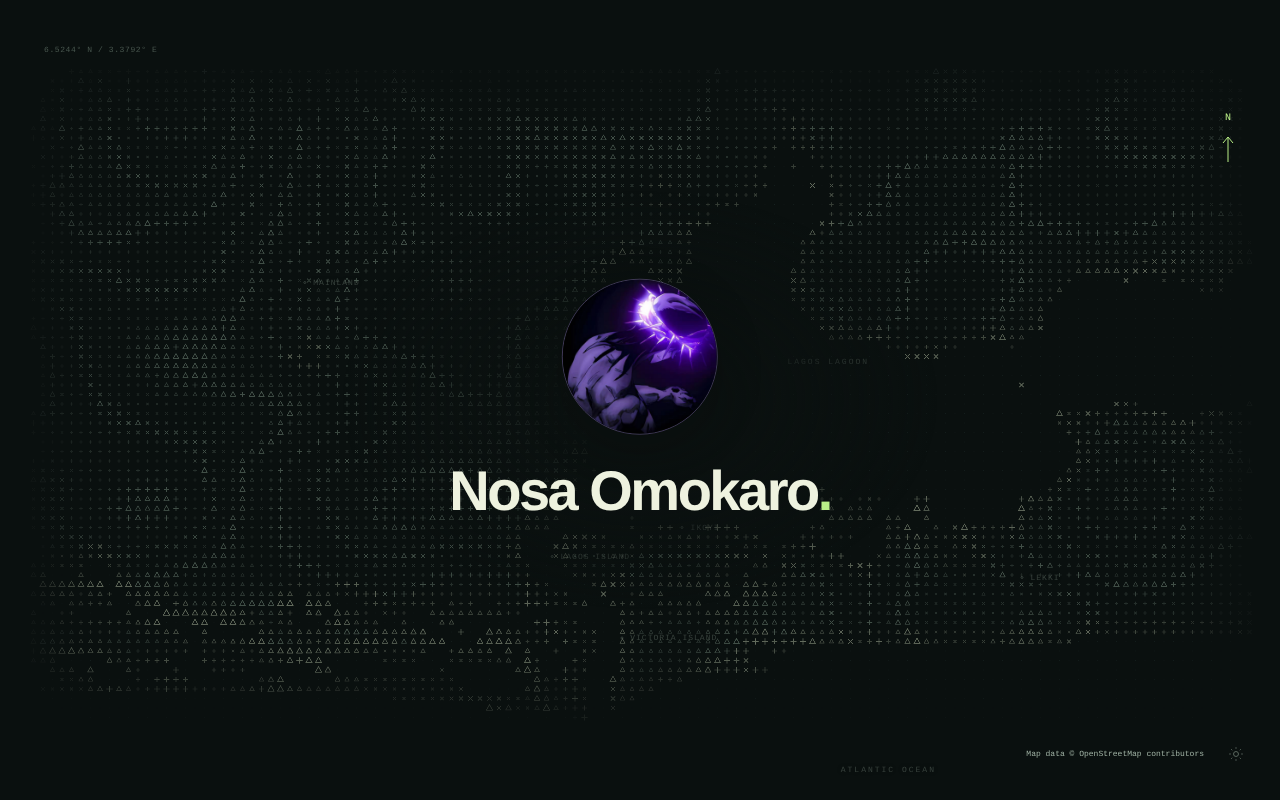
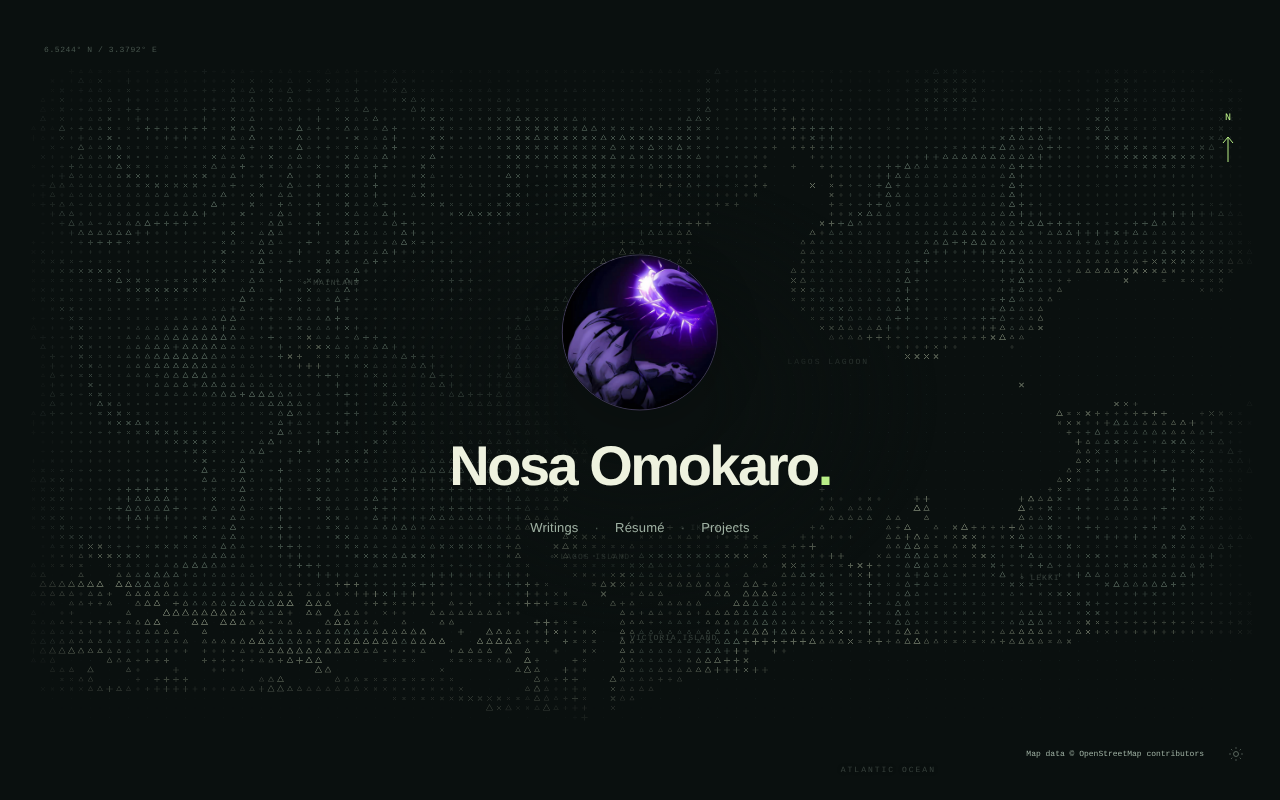
Add portfolio navigation placeholders beneath profile

Changed region(s): [[0.3438, 0.3125, 0.6562, 0.6875]]

diff --git a/README.md b/README.md
@@ -32,3 +32,7 @@ changed canvas tiles are restored. Vector paths are grouped by color and opacity
 frames stop when the bounded particles and pulses settle. No animation framework
 or runtime dependency is needed.
 The bottom-right theme button switches between dark green and paper palettes. Decorative labels do not select while drawing; foreground links and controls remain interactive.
+
+The profile navigation reserves Writings, Résumé, and Projects. Set their `href` values
+in `profileLinks` in `LagosBackground.astro` when destinations are ready. Until then,
+they render as non-clickable placeholders; no blog or showcase routes are published yet.
